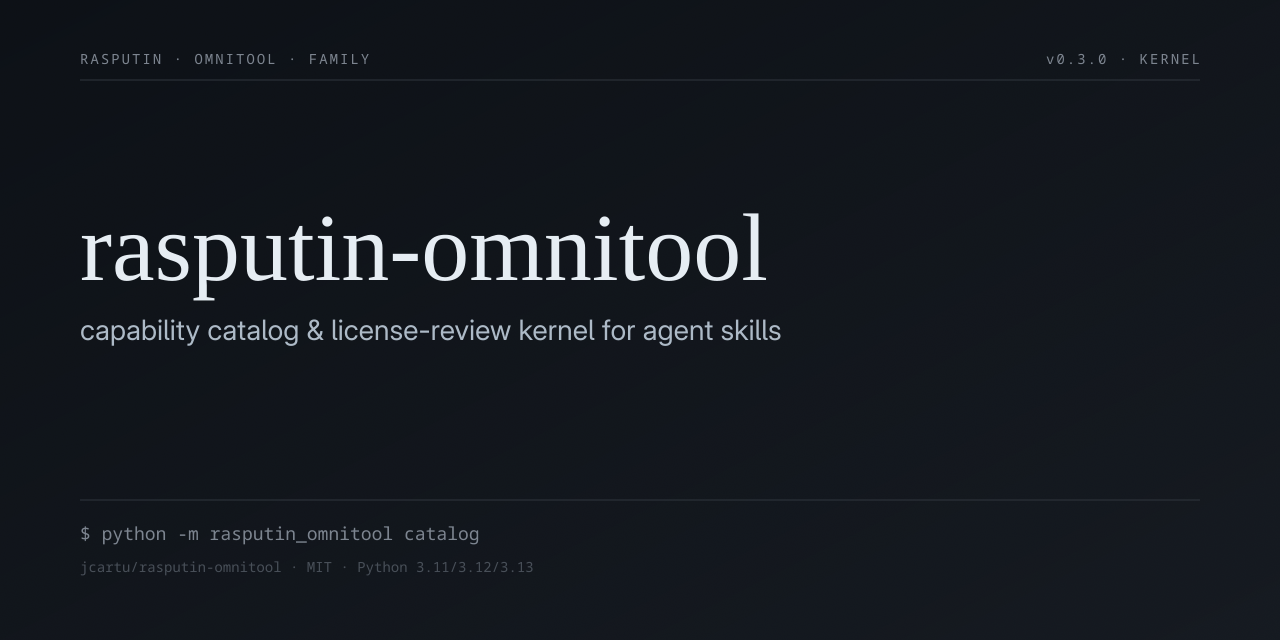
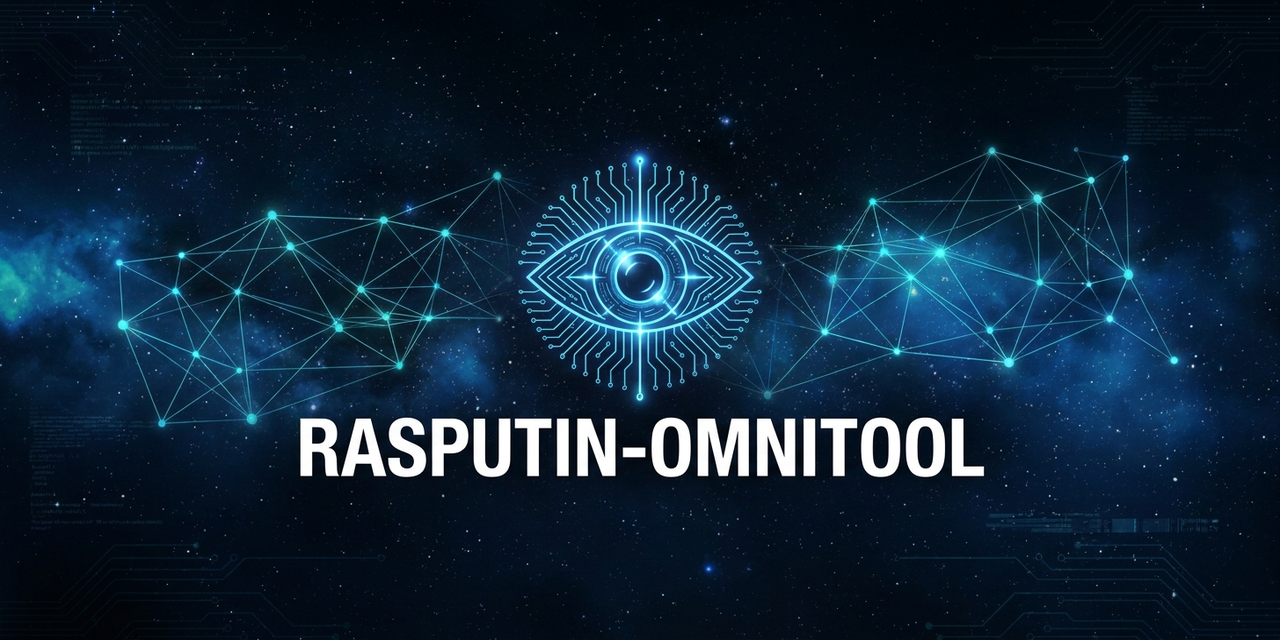
visual: gorgeous repo makeover with nano-banana-pro-preview
- Logo mark (circuit eye, cyan/blue on black)
- Hero banner (1280x400, neural network + data viz)
- Social preview (1280x640, with RASPUTIN-OMNITOOL text)
- Favicon (multi-size .ico + source PNG)
- README: added logo + hero banner

diff --git a/README.md b/README.md
@@ -1,9 +1,14 @@
-# rasputin-omnitool
+<p align="center">
+<img src=".github/assets/logo-mark.png" alt="rasputin-omnitool" width="80"/>
+</p>
+
+<p align="center">
+<img src=".github/assets/hero.png" alt="rasputin-omnitool hero" width="100%"/>
+</p>
 
 [![License: MIT](https://img.shields.io/badge/License-MIT-blue.svg)](LICENSE)
 [![Python 3.11+](https://img.shields.io/badge/python-3.11%2B-blue.svg)](pyproject.toml)
 [![Tests](https://github.com/jcartu/rasputin-omnitool/actions/workflows/tests.yml/badge.svg)](https://github.com/jcartu/rasputin-omnitool/actions/workflows/tests.yml)
-
 Curated catalog of OSS tools mapping to Manus AI capabilities, plus a license-review and library-import smoke harness.
 
 This is a **kernel package**, not an agent. The agent layer that consumes this kernel lives in [rasputin-omnitool-skill](https://github.com/jcartu/rasputin-omnitool-skill) (an OpenClaw skill bundle).